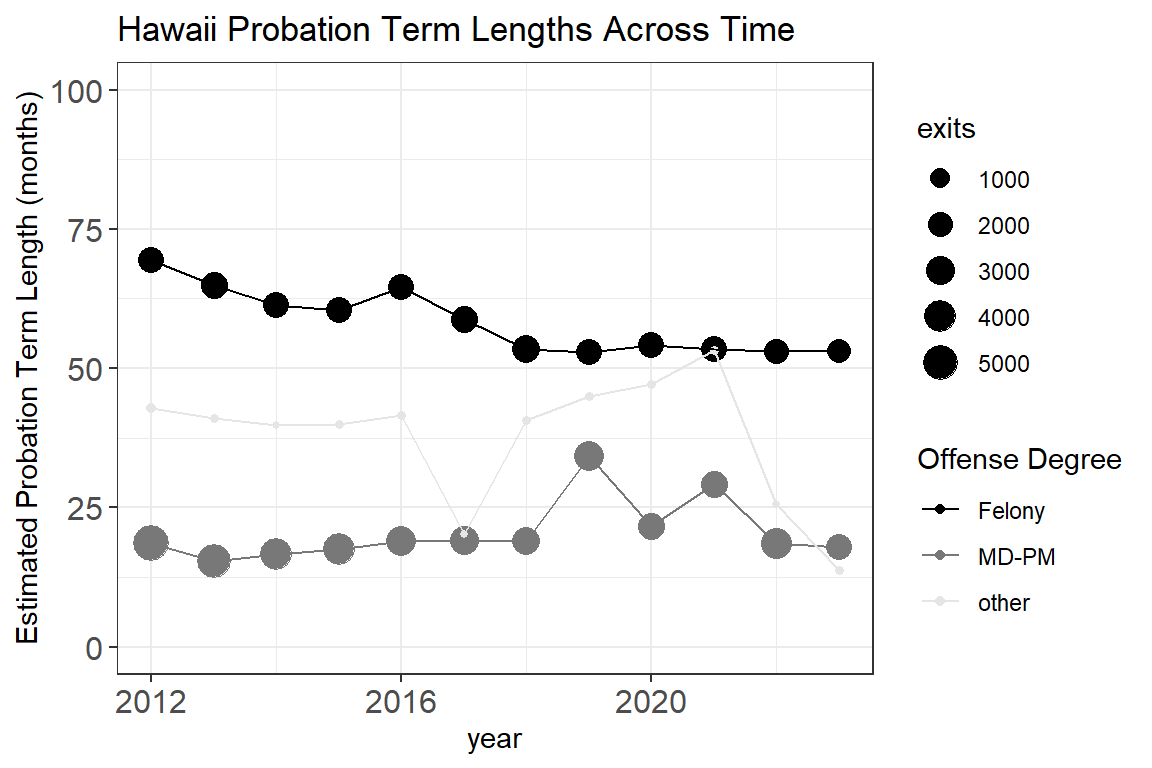
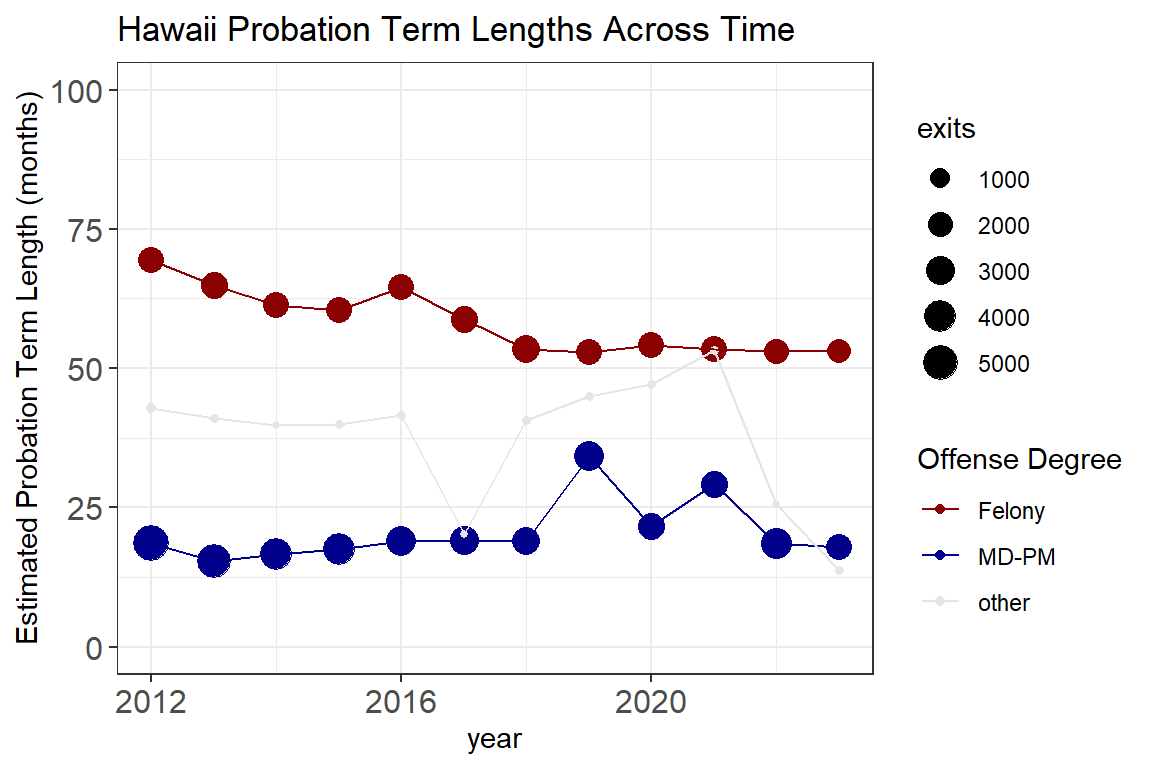
Add files via upload

diff --git a/courts/probation_term_length_report_2024-05-03.html b/courts/probation_term_length_report_2024-05-03.html
@@ -103,6 +103,7 @@ pre > code.sourceCode > span > a:first-child::before { text-decoration: underlin
   <li><a href="#summary" id="toc-summary" class="nav-link" data-scroll-target="#summary"><span class="header-section-number">6</span> Summary</a>
   <ul class="collapse">
   <li><a href="#outstanding-issues" id="toc-outstanding-issues" class="nav-link" data-scroll-target="#outstanding-issues"><span class="header-section-number">6.1</span> Outstanding issues</a></li>
+  <li><a href="#implications-for-early-termination-study" id="toc-implications-for-early-termination-study" class="nav-link" data-scroll-target="#implications-for-early-termination-study"><span class="header-section-number">6.2</span> Implications for early termination study</a></li>
   </ul></li>
   </ul>
 </nav>
@@ -138,7 +139,7 @@ pre > code.sourceCode > span > a:first-child::before { text-decoration: underlin
 <div>
   <div class="abstract">
     <div class="abstract-title">Abstract</div>
-    <p>How long are probation term lengths in Hawaii? <a href="https://www.pewtrusts.org/en/research-and-analysis/reports/2020/12/states-can-shorten-probation-and-protect-public-safety">Past estimates</a> report 58.9 months, the longest of any state in the US. But this analysis was limited to a single year, relied on an “indirect” approximation method to compute probation term length, and suffered from at least one serious data quality issue that likely inflated estimates. To address these limitations, a more complete profile of probation term length is provided by looking over a 12 year window while addressing previous data quality issues. The new estimates converge when using the “indirect” method and a direct approach that relies on case-level data. Even when these limitations are addressed, estimates of probation term length are still misleading as they lump felony and non-felony cases, which are mostly non-overlapping subpopulations. To provide a more conceptually meaningful estimate of probation term length, estimates are disaggregated by offense degree.</p>
+    <p>How long are probation term lengths in Hawaii? According to a <a href="https://www.pewtrusts.org/en/research-and-analysis/reports/2020/12/states-can-shorten-probation-and-protect-public-safety">report by Pew</a>, the average probation term length is 58.9 months, the longest of any state in the US. But this analysis was limited to a single year, relied on an “indirect” approximation method, and suffered from at least one serious data quality issue that likely inflated estimates. To address these limitations, probation term length was estimated over a 12 year window with higher quality data, providing a more complete and accurate profile. Results show that <em>probation term lengths range from 29.7 to 38.4 months</em>. The new estimates converge when using the “indirect” method and a direct approach that relies on case-level data. Even when these limitations are addressed, estimates of probation term length are still misleading as they lump felony and non-felony cases, which are mostly non-overlapping subpopulations. To provide a more conceptually meaningful estimate of probation term length, estimates were disaggregated by offense degree, yielding <em>15.4 to 34.2 months for misdemeanants</em> and <em>52.9 to 69.4 months for felons</em> between 2012 and 2023. Limitations of the data and implications for shortening probation are discussed.</p>
   </div>
 </div>
 
@@ -227,7 +228,7 @@ Expand to learn more about the <em>indirect method</em> used by Pew
 <div id="fig-pew2" class="quarto-figure quarto-figure-center anchored">
 <figure class="figure">
 <p><img src="probation_term_length_report_2024-05-03_files/figure-html/fig-pew2-1.png" class="img-fluid figure-img" width="768"></p>
-<figcaption class="figure-caption">Figure&nbsp;2: Probation length by year</figcaption>
+<figcaption class="figure-caption">Figure&nbsp;2: Probation length by year. Data initially reported by Pew for 2000 and 2018 are in blue, with the national average in red.</figcaption>
 </figure>
 </div>
 </div>
@@ -865,7 +866,7 @@ Expand to learn more about data entry lag in Caseload Explorer
 </section>
 <section id="solution-disaggregating-felony-and-non-felony-using-a-direct-method-and-stable-data" class="level3 page-columns page-full" data-number="5.2">
 <h3 data-number="5.2" class="anchored" data-anchor-id="solution-disaggregating-felony-and-non-felony-using-a-direct-method-and-stable-data"><span class="header-section-number">5.2</span> Solution: Disaggregating felony and non-felony using a direct method and stable data</h3>
-<p>First, here is the distribution of probation term lengths, disaggregated by offense degree and year. Note the empirical support for mostly non-overlapping distributions across years.</p>
+<p>First, here is the distribution of probation term lengths, disaggregated by offense degree and year. Note the empirical support for mostly non-overlapping distributions for felony and misdemeanor probation term lengths across years.</p>
 <div class="cell">
 <details>
 <summary>Show the code</summary>
@@ -1000,7 +1001,7 @@ Expand to learn more about data entry lag in Caseload Explorer
 <span id="cb7-85"><a href="#cb7-85" aria-hidden="true" tabindex="-1"></a>  <span class="fu">geom_line</span>() <span class="sc">+</span></span>
 <span id="cb7-86"><a href="#cb7-86" aria-hidden="true" tabindex="-1"></a>  <span class="fu">scale_y_continuous</span>(<span class="st">"Estimated Probation Term Length (months)"</span>, <span class="at">limits =</span> <span class="fu">c</span>(<span class="dv">0</span>,<span class="dv">100</span>)) <span class="sc">+</span></span>
 <span id="cb7-87"><a href="#cb7-87" aria-hidden="true" tabindex="-1"></a>  <span class="fu">scale_color_manual</span>(<span class="at">name =</span> <span class="st">"Offense Degree"</span>, </span>
-<span id="cb7-88"><a href="#cb7-88" aria-hidden="true" tabindex="-1"></a>                     <span class="at">values =</span> <span class="fu">c</span>(<span class="st">"black"</span>,<span class="st">"gray47"</span>, <span class="st">"gray90"</span>) <span class="co">#set colors manually</span></span>
+<span id="cb7-88"><a href="#cb7-88" aria-hidden="true" tabindex="-1"></a>                     <span class="at">values =</span> <span class="fu">c</span>(<span class="st">"darkred"</span>,<span class="st">"darkblue"</span>, <span class="st">"gray90"</span>) <span class="co">#set colors manually</span></span>
 <span id="cb7-89"><a href="#cb7-89" aria-hidden="true" tabindex="-1"></a>                     <span class="co"># breaks = c("CE_BJS_survey", "CE_2024", "CX_2024"), #control the order of the labels</span></span>
 <span id="cb7-90"><a href="#cb7-90" aria-hidden="true" tabindex="-1"></a>                     <span class="co"># labels = c("Pew Method with old BJS data", "Pew Method with new CE data", "Direct method with new CX data") #customize labels</span></span>
 <span id="cb7-91"><a href="#cb7-91" aria-hidden="true" tabindex="-1"></a>  ) <span class="sc">+</span></span>
@@ -1043,10 +1044,22 @@ Expand to learn more about data entry lag in Caseload Explorer
 <p>UNDER CONSTRUCTION!</p>
 <section id="outstanding-issues" class="level3" data-number="6.1">
 <h3 data-number="6.1" class="anchored" data-anchor-id="outstanding-issues"><span class="header-section-number">6.1</span> Outstanding issues</h3>
-<section id="size-on-year-end-probation-population" class="level4" data-number="6.1.1">
-<h4 data-number="6.1.1" class="anchored" data-anchor-id="size-on-year-end-probation-population"><span class="header-section-number">6.1.1</span> Size on year-end probation population</h4>
+<section id="unexplained-fluctuation-in-size-of-year-end-probation-population" class="level4" data-number="6.1.1">
+<h4 data-number="6.1.1" class="anchored" data-anchor-id="unexplained-fluctuation-in-size-of-year-end-probation-population"><span class="header-section-number">6.1.1</span> Unexplained fluctuation in size of year-end probation population</h4>
 <p>UNDER CONSTRUCTION!</p>
 </section>
+<section id="remaining-data-quality-issues-positive-and-negative-outliar-term-lengths" class="level4" data-number="6.1.2">
+<h4 data-number="6.1.2" class="anchored" data-anchor-id="remaining-data-quality-issues-positive-and-negative-outliar-term-lengths"><span class="header-section-number">6.1.2</span> Remaining data quality issues: positive and negative outliar term lengths</h4>
+<p>UNDER CONSTRUCTION!</p>
+</section>
+<section id="high-percentage-of-felony-probationers-relative-to-other-jurisdictions" class="level4" data-number="6.1.3">
+<h4 data-number="6.1.3" class="anchored" data-anchor-id="high-percentage-of-felony-probationers-relative-to-other-jurisdictions"><span class="header-section-number">6.1.3</span> High percentage of felony probationers relative to other jurisdictions</h4>
+<p>UNDER CONSTRUCTION!</p>
+</section>
+</section>
+<section id="implications-for-early-termination-study" class="level3" data-number="6.2">
+<h3 data-number="6.2" class="anchored" data-anchor-id="implications-for-early-termination-study"><span class="header-section-number">6.2</span> Implications for early termination study</h3>
+<p>UNDER CONSTRUCTION!</p>
 </section>
 </section>
 
